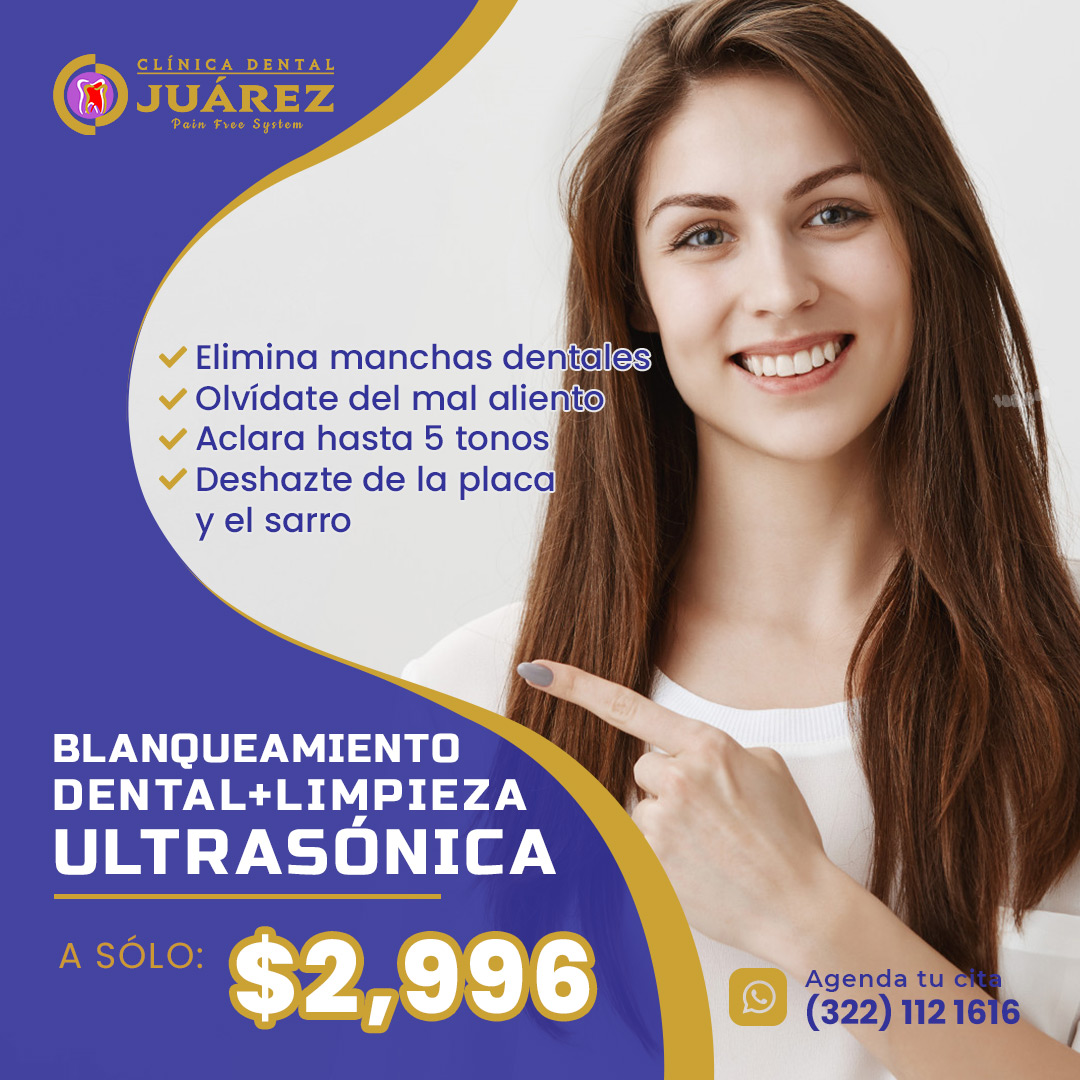
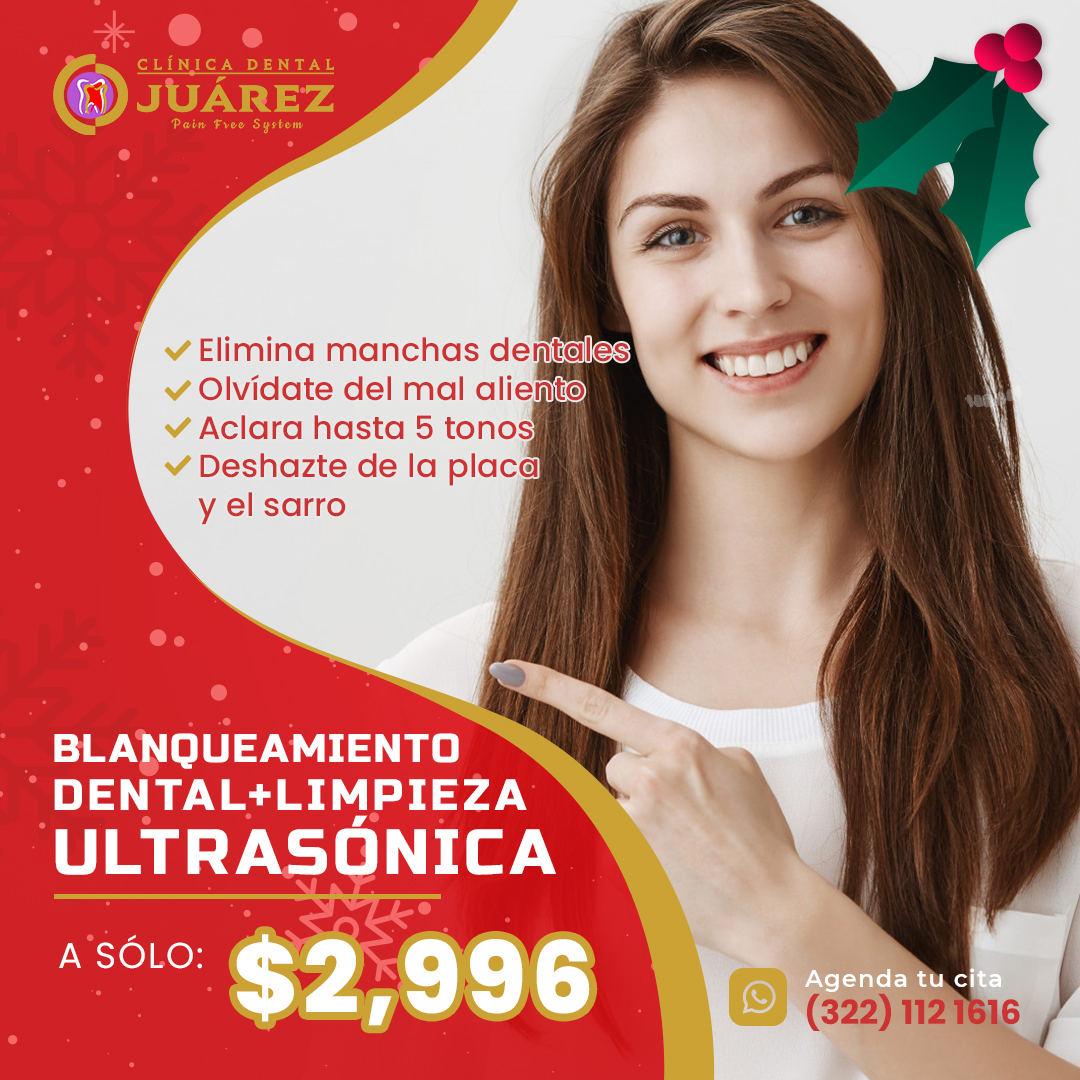
Promociones navideñas

diff --git a/Index.html b/Index.html
@@ -179,7 +179,7 @@
           </div>
           <div class="promotion-item">
               <a href="https://wa.me/3221121616?text=Buenas tardes, quiero mi promoción para cirugía de terceros molares" target="_blank">
-                  <img src="img/promociones/muelas-cuadrado-juarez.jpg" alt="" class="promotion-img">
+                  <img src="img/promociones/molares-cuadrado-juarez.jpg" alt="" class="promotion-img">
               </a>
           </div>
           <div class="promotion-item"> 
@@ -189,7 +189,7 @@
           </div>
           <div class="promotion-item">
             <a href="https://wa.me/3221121616?text=Buenas tardes, quiero mi promoción de coronas libres de metal" target="_blank">
-                <img src="img/promociones/promo-coronas.jpeg" alt="" class="promotion-img">
+                <img src="img/promociones/valoracion-cuadrado-juarez.jpg" alt="" class="promotion-img">
             </a>
           </div>
             <div class="promotion-item">
@@ -199,12 +199,7 @@
             </div>
             <div class="promotion-item">
                 <a href="https://wa.me/3221121616?text=Buenas tardes, quiero iniciar mi tratamiento de brackets" target="_blank">
-                    <img src="img/promociones/brackets-cuadrado-juarez.jpg" alt="" class="promotion-img">
-                </a>
-            </div>
-            <div class="promotion-item">
-                <a href="https://wa.me/3221121616?text=Buenas tardes, quiero agendar mi cita para placa total y parcial." target="_blank">
-                    <img src="img/promociones/placas-cuadrado-juarez.jpg" alt="" class="promotion-img">
+                    <img src="img/promociones/limpiezas-cuadrado-juarez.jpg" alt="" class="promotion-img">
                 </a>
             </div>
             <!--Slider con todas las promos para celular-->
